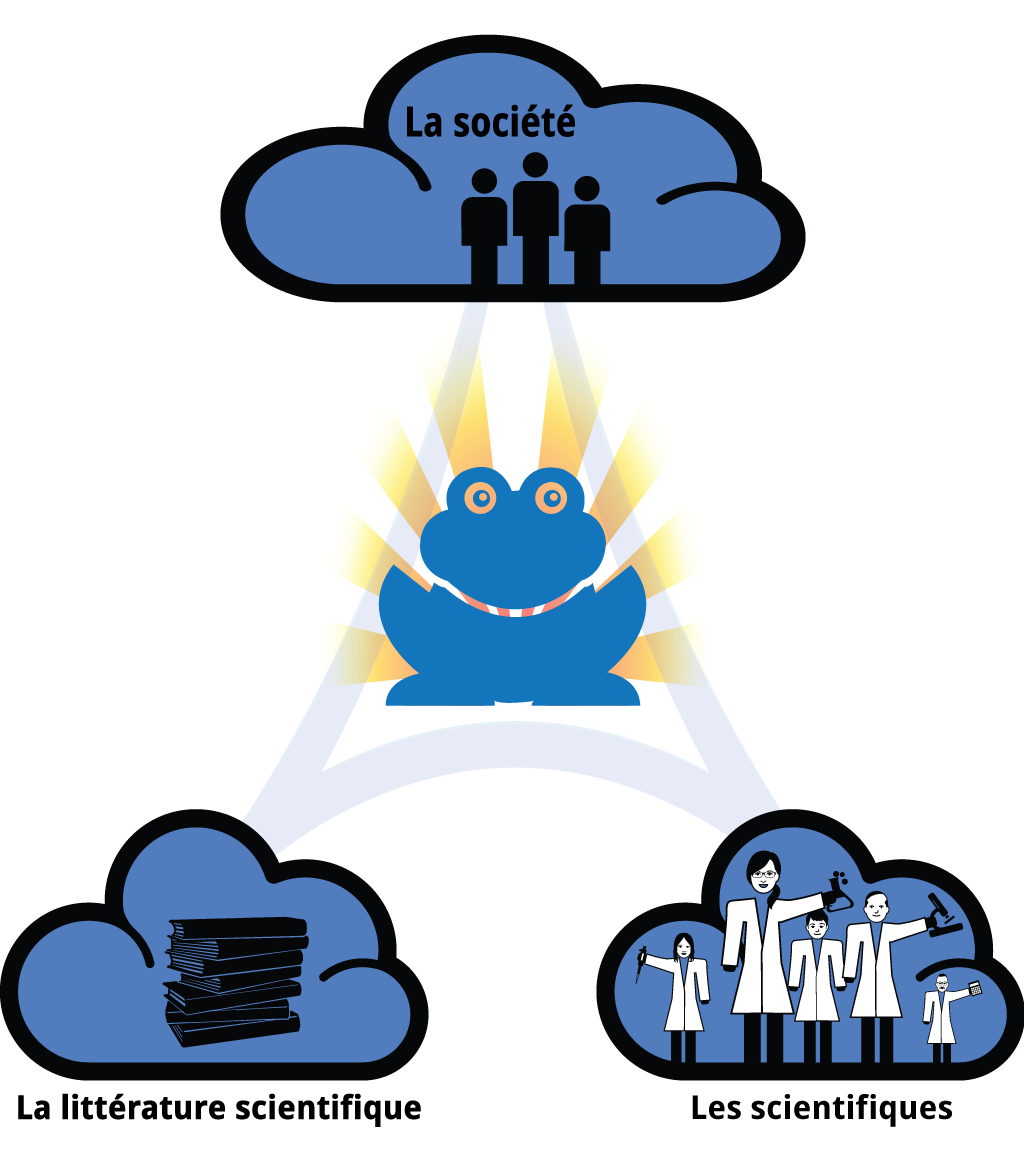
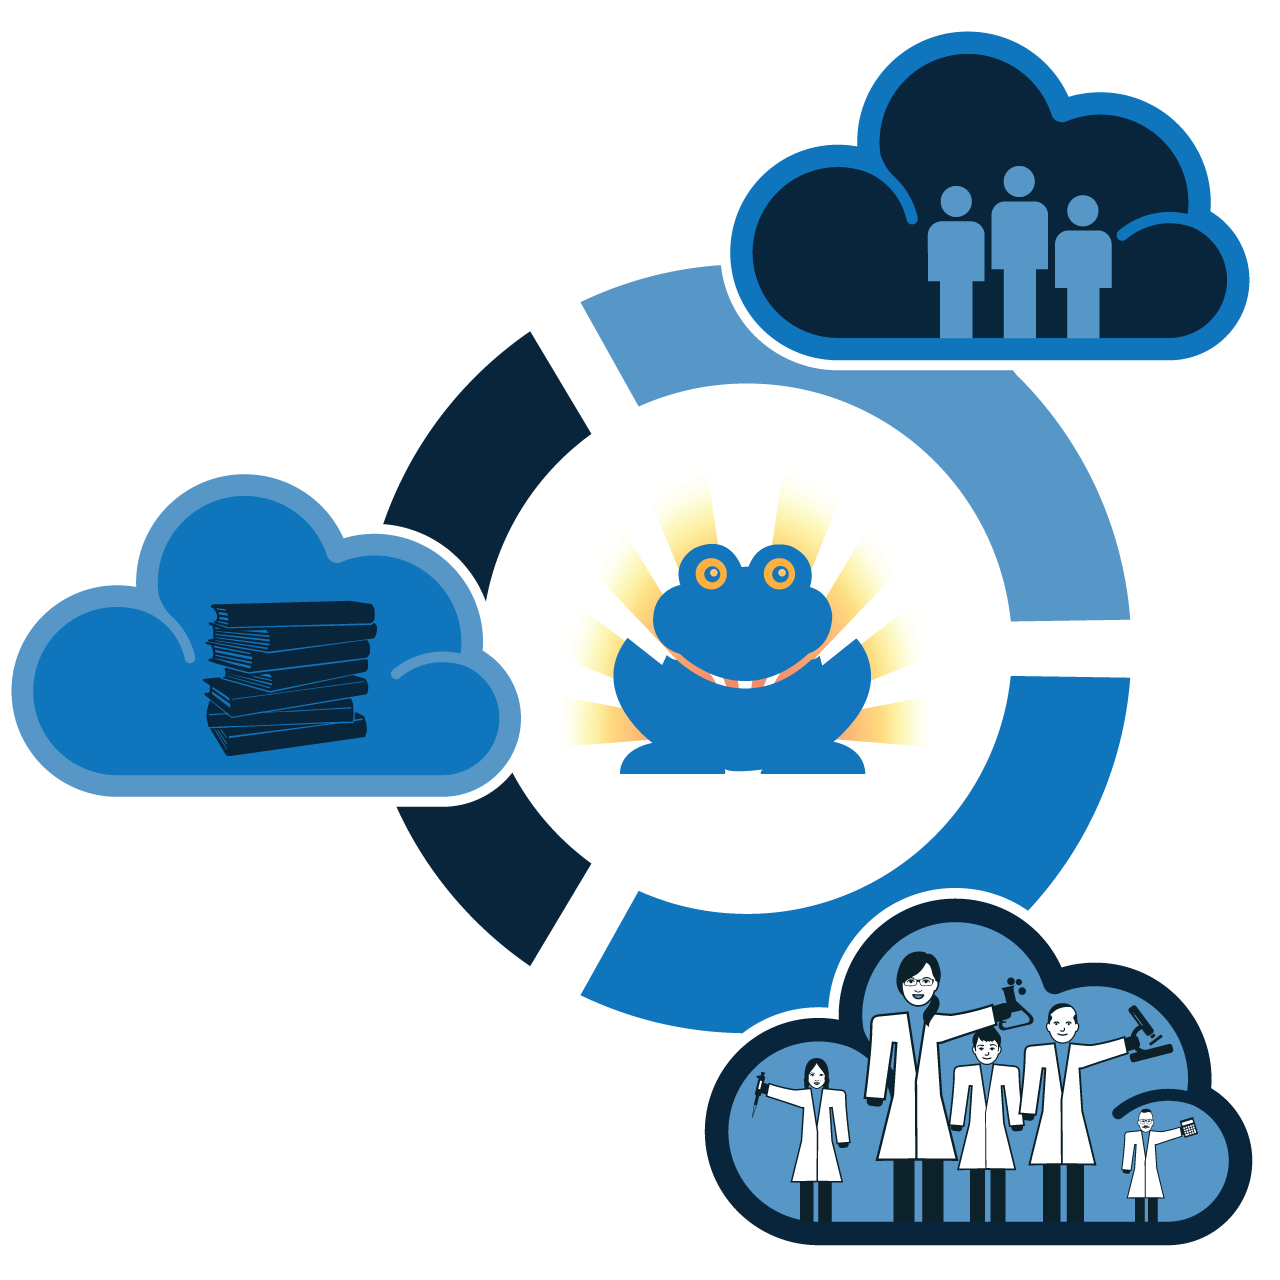
Changed the help-mission from a triangle to a circle

diff --git a/app/assets/stylesheets/custom.css.scss b/app/assets/stylesheets/custom.css.scss
@@ -336,9 +336,20 @@ section h1{
 }
 
 .timeline-name > a {
+  color: #3686BE;
   font-size: 1.3em;
   font-weight: bold;
   text-decoration: none;
+}
+
+.timeline-name > a:hover {
+  color: #07212B;
+}
+
+.timeline{
+  .panel-primary{
+    border-color: #3686BE;
+  }
 }
 
 .page{
